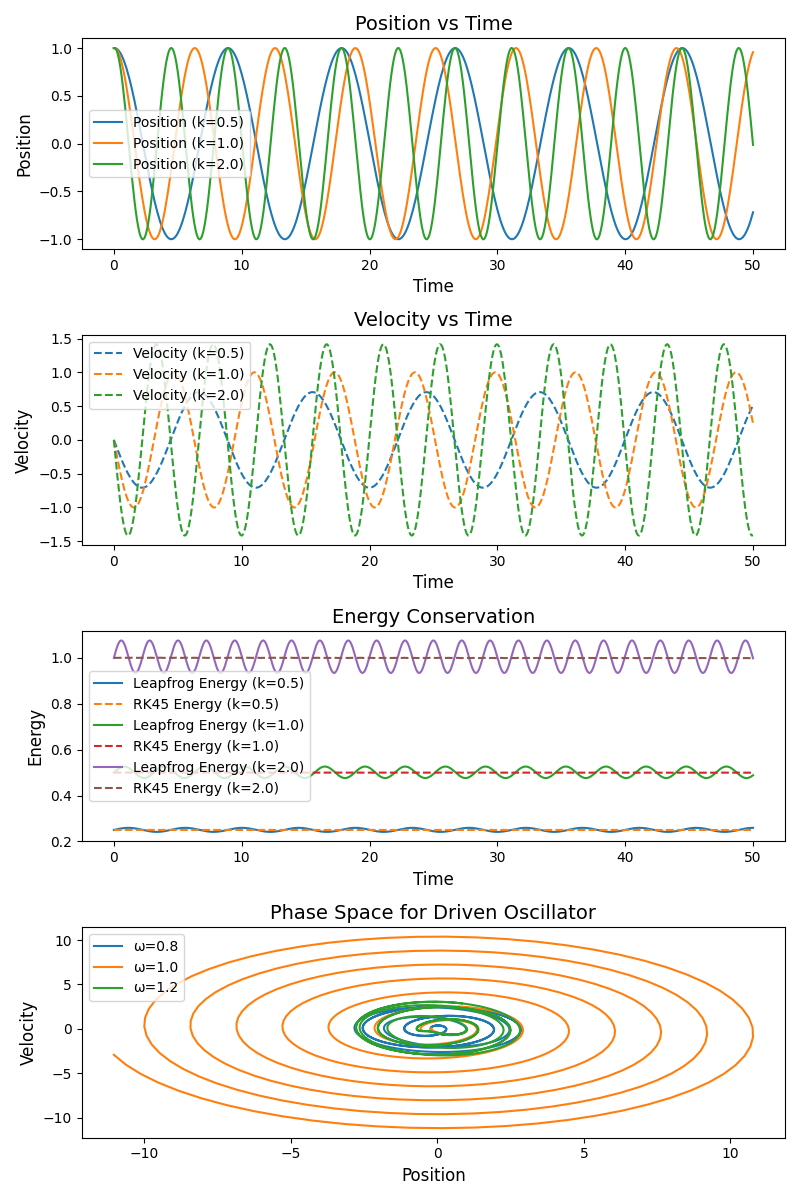
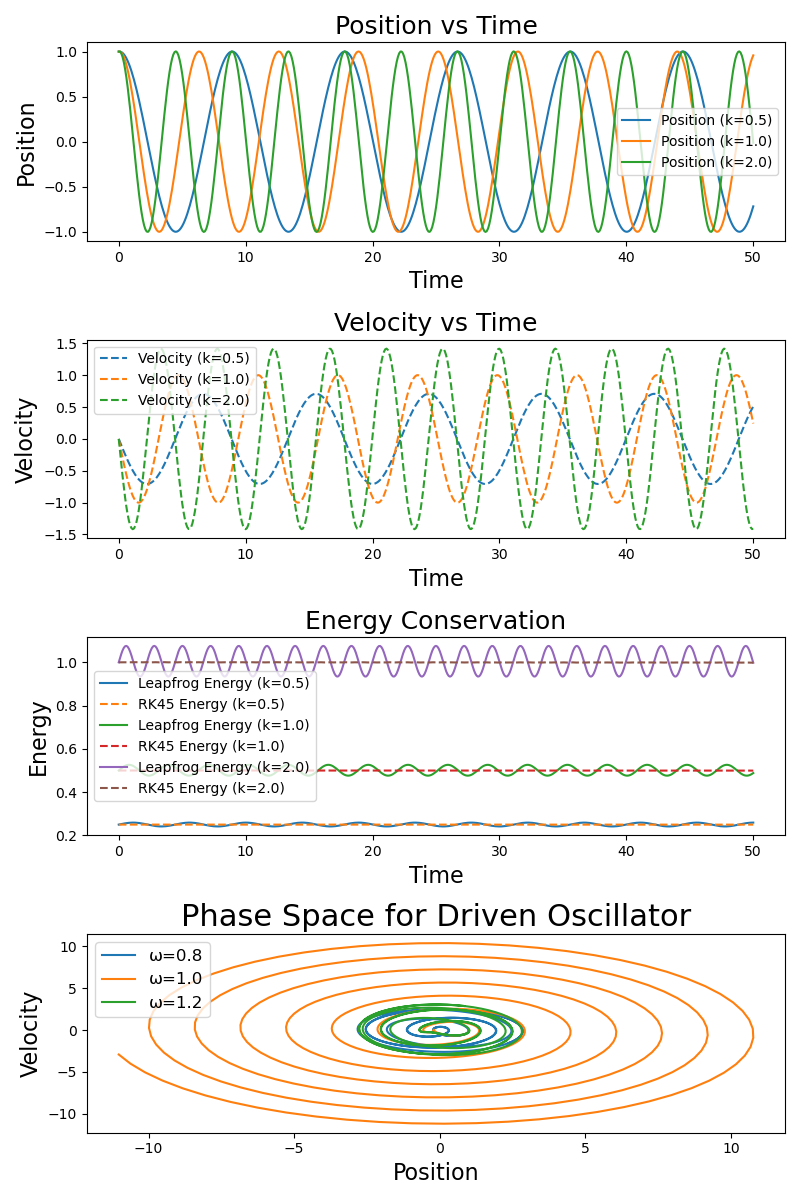
changed some fontsizes

diff --git a/src/leapfrog.py b/src/leapfrog.py
@@ -137,19 +137,19 @@ def plot_leapfrog_results(k_values, m, A, dt, t_max, x0, v0, t0):
         axs[2].plot(sol.t, energy_rk45, linestyle="dashed", label=f"RK45 Energy (k={k})")
 
     # Set titles, labels, and legends for better readability
-    axs[0].set_title("Position vs Time", fontsize=14)
-    axs[0].set_xlabel("Time", fontsize=12)
-    axs[0].set_ylabel("Position", fontsize=12)
+    axs[0].set_title("Position vs Time", fontsize=18)
+    axs[0].set_xlabel("Time", fontsize=16)
+    axs[0].set_ylabel("Position", fontsize=16)
     axs[0].legend()
 
-    axs[1].set_title("Velocity vs Time", fontsize=14)
-    axs[1].set_xlabel("Time", fontsize=12)
-    axs[1].set_ylabel("Velocity", fontsize=12)
+    axs[1].set_title("Velocity vs Time", fontsize=18)
+    axs[1].set_xlabel("Time", fontsize=16)
+    axs[1].set_ylabel("Velocity", fontsize=16)
     axs[1].legend()
 
-    axs[2].set_title("Energy Conservation", fontsize=14)
-    axs[2].set_xlabel("Time", fontsize=12)
-    axs[2].set_ylabel("Energy", fontsize=12)
+    axs[2].set_title("Energy Conservation", fontsize=18)
+    axs[2].set_xlabel("Time", fontsize=16)
+    axs[2].set_ylabel("Energy", fontsize=16)
     axs[2].legend()
 
     # Phase plots for different driving frequencies
@@ -157,10 +157,10 @@ def plot_leapfrog_results(k_values, m, A, dt, t_max, x0, v0, t0):
         x_vals, v_vals = leapfrog_driven(omega, k_values[1], A, m, dt, steps)
         axs[3].plot(x_vals, v_vals, label=f"ω={omega}")
 
-    axs[3].set_title("Phase Space for Driven Oscillator", fontsize=14)
-    axs[3].set_xlabel("Position", fontsize=12)
-    axs[3].set_ylabel("Velocity", fontsize=12)
-    axs[3].legend()
+    axs[3].set_title("Phase Space for Driven Oscillator", fontsize=22)
+    axs[3].set_xlabel("Position", fontsize=16)
+    axs[3].set_ylabel("Velocity", fontsize=16)
+    axs[3].legend(fontsize=12)
 
     plt.tight_layout()
     plt.savefig('fig/leapfrog.png')

diff --git a/src/DirectSteadyState.py b/src/DirectSteadyState.py
@@ -60,12 +60,12 @@ def solve_steady_state(N: int, radius: float, source:tuple = (0.6, 1.2), plot_M_
     return x
 
 if __name__ == '__main__':
-    N = 100
+    N = 50
     radius = 2
     x = solve_steady_state(N, radius, plot_M_mask=True)
     plt.imshow(x.reshape((N, N)), cmap='viridis', norm=LogNorm())
     plt.colorbar(label="Value")
     plt.xlabel("Column")
     plt.ylabel("Row")
-    plt.title("Steady State Solution")
+    plt.title("Steady State Solution", fontsize=20)
     plt.show()

diff --git a/README.md b/README.md
@@ -1,5 +1,10 @@
 # Scientific-Computing-Set-3
 
+## Solving the Eigenvalue Problem
+
+### Files
+- src/EigenmodesTimeIndependent: Implements the construction of the 2D laplace matrix for differently shaped domains and solves for eigenvalues. This results in the spatial part of our wave solution. It enables plotting of the matrix as well as different eigenmodes.
+- src/EigenmodesTimeDependent: Incorporates a spatial part into the equation, enabling investigation of the time dependent system. It enables plotting and animation of the time development of the system
 
 ## Direct methods for solving steady state problems
 
